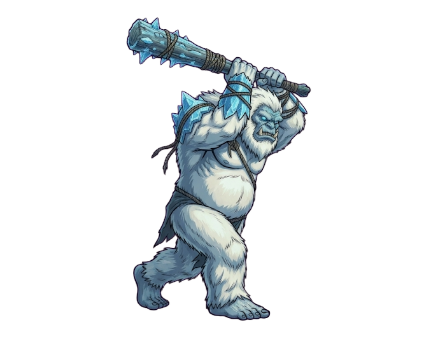
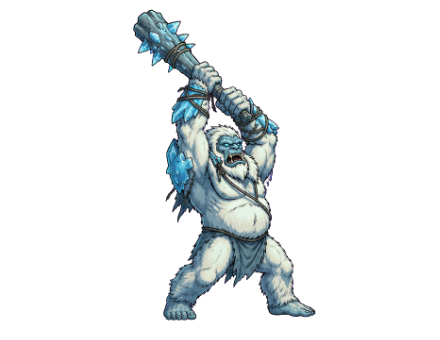
컷신 영상 1.12배 확대로 제미나이 표시 가림, 설산 거괴 공격 새 그림 (ChatGPT)

Changed region(s): [[0.2659, 0.0294, 0.7386, 0.9412]]

diff --git a/css/style.css b/css/style.css
@@ -1791,7 +1791,8 @@
     #cinema .cn-dots i.on { background: #fbbf24; }
     @media (pointer: coarse) { #cinema .cn-hint { display: none; } }
     /* 편집된 영상 한 편: 영상은 잘리지 않게 화면에 맞추고, 검은 띠 대신 아래쪽 그림자 위에 자막 */
-    #cinema .cn-film { position: absolute; inset: 0; width: 100%; height: 100%; object-fit: contain; background: #000; }
+    #cinema .cn-filmbox { position: absolute; left: 50%; top: 50%; transform: translate(-50%, -50%); width: min(100vw, calc(100vh * 16 / 9)); height: min(100vh, calc(100vw * 9 / 16)); overflow: hidden; background: #000; }
+    #cinema .cn-film { position: absolute; left: 0; top: 0; width: 112%; height: 112%; object-fit: fill; background: #000; } /* 1.12배: 오른쪽·아래 10.7%를 잘라 제미나이 표시 가림 */
     #cinema.film { cursor: default; }
     #cinema.film .cn-bar { background: transparent; }
     #cinema.film .cn-bot { height: 22vh; align-items: flex-end; padding-bottom: 6vh; background: linear-gradient(transparent, rgba(0,0,0,.55)); }

diff --git a/js/10_render_actors.js b/js/10_render_actors.js
@@ -217,7 +217,7 @@ const SKIN_ART = {
   mob_ice_sword: { key: 'mob_ice_sword', h: 145 },
   mob_ice_jiangshi: { key: 'mob_ice_jiangshi', h: 150, hop: true },
   mob_ice_mage: { key: 'mob_ice_mage', h: 150 },
-  mob_yeti: { key: 'mob_yeti', h: 225 }, // 몽둥이를 들어도 안 잘리게 작게 잘라서(245px) 키를 크게
+  mob_yeti: { key: 'mob_yeti', h: 262 }, // 몽둥이를 들어도 안 잘리게 작게 잘라서(210px) 키를 크게
   mob_white_tiger: { key: 'mob_white_tiger', h: 150 }, // 옆으로 긴 그림이라 작게 잘라서(180px) 키를 크게
   mob_ice_spider: { key: 'mob_ice_spider', h: 170 },
   mob_poison_spider: { key: 'mob_poison_spider', h: 170 },

diff --git a/js/13_cinematics.js b/js/13_cinematics.js
@@ -269,7 +269,11 @@ const Cinema = {
     v.playsInline = true;
     v.muted = !(typeof sound !== 'undefined' && sound.enabled);
     v.volume = 1;
-    this.stage.appendChild(v);
+    // 16:9 틀 안에서 1.12배 확대 → 오른쪽 아래 제미나이 표시가 틀 밖으로 (11-12 사용자 확인)
+    const box = document.createElement('div');
+    box.className = 'cn-filmbox';
+    box.appendChild(v);
+    this.stage.appendChild(box);
     this.filmEl = v;
     const p = v.play();
     if (p && p.catch) p.catch(() => { v.muted = true; v.play().catch(() => {}); }); // 소리 자동 재생이 막히면 소리 없이라도

diff --git a/js/12_bosses.js b/js/12_bosses.js
@@ -288,7 +288,7 @@ function miniBossLook(e) {
   }
   if (art && !SPRITES[art + '_walk_0']) art = null; // 그림을 못 불러왔으면 예전 그림
   const sec = Math.max(0, Math.min(4, (currentSelectedSector || 1) - 1));
-  const H = { mob_butcher: 250, mob_ghoul: 190, mob_yeti: 310 };
+  const H = { mob_butcher: 250, mob_ghoul: 190, mob_yeti: 360 };
   const own = art && /^mob_(ice_|yeti)/.test(art); // 빙궁 전용 그림은 색 바꾸지 않음
   e._look = { art, filter: own ? null : MB_SECTOR_TINT[sec], h: art ? (H[art] || 215) : 0 };
   return e._look;

diff --git a/작업기록.md b/작업기록.md
@@ -281,3 +281,6 @@
 - 제미나이가 Flash-Lite 로 바뀌면 그림 품질 낮음·첨부 실패 → 거미·늑대 걷기 그림이 단순했던 이유. 공격 다시: tools/gemini/attack_redo.sh
 - ChatGPT로 다시 그림 (11-12 저녁): 백호 걷기, 늑대 공격, 만독 거미·빙정 거미 걷기+공격(4칸x2줄 한 장). 남은 것: 설산 거괴 공격 1번(뒤돈 장면), 현운 3장.
 - 컷신 영상의 제미나이 표시(오른쪽 아래 ✦, 약 90%·83% 자리): 당장은 영상 확대로 가리는 안 (미리보기 cinema_crop_preview.html, git 제외). 나중 계획(사용자 결정 11-12): 영상 6편을 "움직이는 그림 컷"(13_cinematics 의 shots, assets/cinema/<id>.png)으로 바꾸기 — ChatGPT 그림(표시 없음) 20~25장. 출시는 서두르지 않음.
+- 설산 거괴 공격 다시 (ChatGPT): 네 장면 모두 오른쪽, 몽둥이 들기·내려찍기. targetH 210, h 262.
+- 컷신 영상: 16:9 틀 안 1.12배 확대로 제미나이 표시 가림 (사용자 미리보기 확인). css .cn-filmbox/.cn-film
+- ChatGPT 도구: 그림이 끝나면 라이브러리 화면으로 넘어감 → alt "생성된 이미지" 그림도 찾게 함.
